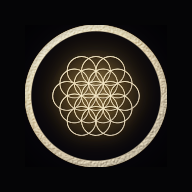
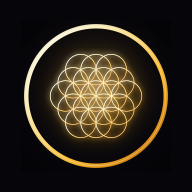
Brand: ship the plasma flower — glowing ring, bloom, hot lattice; flat reductions below 48px

Changed region(s): [[0.25, 0.25, 0.75, 0.75], [0.125, 0.125, 0.875, 0.875]]

diff --git a/packages/host/webserver/src/welcome-page.ts b/packages/host/webserver/src/welcome-page.ts
@@ -32,9 +32,10 @@ const DEEPSEEK_TOPUP = 'https://platform.deepseek.com/top_up'
 
 /** The crest, small enough to sit beside the wordmark. */
 const CREST = `<svg class="crest-sm" viewBox="0 0 512 512" aria-hidden="true">
-        <circle cx="256" cy="256" r="238" fill="none" stroke="#D9B463" stroke-width="14"/>
-        <circle cx="256" cy="256" r="222" fill="none" stroke="#D9B463" stroke-width="3"/>
-        <circle cx="256" cy="256" r="52" fill="none" stroke="#D9B463" stroke-width="2.2"/><circle cx="308" cy="256" r="52" fill="none" stroke="#D9B463" stroke-width="2.2"/><circle cx="282" cy="301" r="52" fill="none" stroke="#D9B463" stroke-width="2.2"/><circle cx="230" cy="301" r="52" fill="none" stroke="#D9B463" stroke-width="2.2"/><circle cx="204" cy="256" r="52" fill="none" stroke="#D9B463" stroke-width="2.2"/><circle cx="230" cy="211" r="52" fill="none" stroke="#D9B463" stroke-width="2.2"/><circle cx="282" cy="211" r="52" fill="none" stroke="#D9B463" stroke-width="2.2"/><circle cx="334" cy="301" r="52" fill="none" stroke="#D9B463" stroke-width="2.2"/><circle cx="256" cy="346" r="52" fill="none" stroke="#D9B463" stroke-width="2.2"/><circle cx="178" cy="301" r="52" fill="none" stroke="#D9B463" stroke-width="2.2"/><circle cx="178" cy="211" r="52" fill="none" stroke="#D9B463" stroke-width="2.2"/><circle cx="256" cy="166" r="52" fill="none" stroke="#D9B463" stroke-width="2.2"/><circle cx="334" cy="211" r="52" fill="none" stroke="#D9B463" stroke-width="2.2"/><circle cx="360" cy="256" r="52" fill="none" stroke="#D9B463" stroke-width="2.2"/><circle cx="308" cy="346" r="52" fill="none" stroke="#D9B463" stroke-width="2.2"/><circle cx="204" cy="346" r="52" fill="none" stroke="#D9B463" stroke-width="2.2"/><circle cx="152" cy="256" r="52" fill="none" stroke="#D9B463" stroke-width="2.2"/><circle cx="204" cy="166" r="52" fill="none" stroke="#D9B463" stroke-width="2.2"/><circle cx="308" cy="166" r="52" fill="none" stroke="#D9B463" stroke-width="2.2"/>
+        <defs><filter id="doorGlow" x="-40%" y="-40%" width="180%" height="180%"><feGaussianBlur stdDeviation="9"/></filter></defs>
+        <g filter="url(#doorGlow)" opacity=".75" stroke="#FFF0A8"><circle cx="256" cy="256" r="238" fill="none" stroke-width="16"/><circle cx="256" cy="256" r="52" fill="none" stroke="#FFD466" stroke-width="2.6"/><circle cx="308" cy="256" r="52" fill="none" stroke="#FFD466" stroke-width="2.6"/><circle cx="282" cy="301" r="52" fill="none" stroke="#FFD466" stroke-width="2.6"/><circle cx="230" cy="301" r="52" fill="none" stroke="#FFD466" stroke-width="2.6"/><circle cx="204" cy="256" r="52" fill="none" stroke="#FFD466" stroke-width="2.6"/><circle cx="230" cy="211" r="52" fill="none" stroke="#FFD466" stroke-width="2.6"/><circle cx="282" cy="211" r="52" fill="none" stroke="#FFD466" stroke-width="2.6"/><circle cx="334" cy="301" r="52" fill="none" stroke="#FFD466" stroke-width="2.6"/><circle cx="256" cy="346" r="52" fill="none" stroke="#FFD466" stroke-width="2.6"/><circle cx="178" cy="301" r="52" fill="none" stroke="#FFD466" stroke-width="2.6"/><circle cx="178" cy="211" r="52" fill="none" stroke="#FFD466" stroke-width="2.6"/><circle cx="256" cy="166" r="52" fill="none" stroke="#FFD466" stroke-width="2.6"/><circle cx="334" cy="211" r="52" fill="none" stroke="#FFD466" stroke-width="2.6"/><circle cx="360" cy="256" r="52" fill="none" stroke="#FFD466" stroke-width="2.6"/><circle cx="308" cy="346" r="52" fill="none" stroke="#FFD466" stroke-width="2.6"/><circle cx="204" cy="346" r="52" fill="none" stroke="#FFD466" stroke-width="2.6"/><circle cx="152" cy="256" r="52" fill="none" stroke="#FFD466" stroke-width="2.6"/><circle cx="204" cy="166" r="52" fill="none" stroke="#FFD466" stroke-width="2.6"/><circle cx="308" cy="166" r="52" fill="none" stroke="#FFD466" stroke-width="2.6"/></g>
+        <circle cx="256" cy="256" r="238" fill="none" stroke="#FFD466" stroke-width="14"/>
+        <circle cx="256" cy="256" r="52" fill="none" stroke="#FFD466" stroke-width="2.6"/><circle cx="308" cy="256" r="52" fill="none" stroke="#FFD466" stroke-width="2.6"/><circle cx="282" cy="301" r="52" fill="none" stroke="#FFD466" stroke-width="2.6"/><circle cx="230" cy="301" r="52" fill="none" stroke="#FFD466" stroke-width="2.6"/><circle cx="204" cy="256" r="52" fill="none" stroke="#FFD466" stroke-width="2.6"/><circle cx="230" cy="211" r="52" fill="none" stroke="#FFD466" stroke-width="2.6"/><circle cx="282" cy="211" r="52" fill="none" stroke="#FFD466" stroke-width="2.6"/><circle cx="334" cy="301" r="52" fill="none" stroke="#FFD466" stroke-width="2.6"/><circle cx="256" cy="346" r="52" fill="none" stroke="#FFD466" stroke-width="2.6"/><circle cx="178" cy="301" r="52" fill="none" stroke="#FFD466" stroke-width="2.6"/><circle cx="178" cy="211" r="52" fill="none" stroke="#FFD466" stroke-width="2.6"/><circle cx="256" cy="166" r="52" fill="none" stroke="#FFD466" stroke-width="2.6"/><circle cx="334" cy="211" r="52" fill="none" stroke="#FFD466" stroke-width="2.6"/><circle cx="360" cy="256" r="52" fill="none" stroke="#FFD466" stroke-width="2.6"/><circle cx="308" cy="346" r="52" fill="none" stroke="#FFD466" stroke-width="2.6"/><circle cx="204" cy="346" r="52" fill="none" stroke="#FFD466" stroke-width="2.6"/><circle cx="152" cy="256" r="52" fill="none" stroke="#FFD466" stroke-width="2.6"/><circle cx="204" cy="166" r="52" fill="none" stroke="#FFD466" stroke-width="2.6"/><circle cx="308" cy="166" r="52" fill="none" stroke="#FFD466" stroke-width="2.6"/>
       </svg>`
 
 /** Shared page styling: one window, two rooms. */
